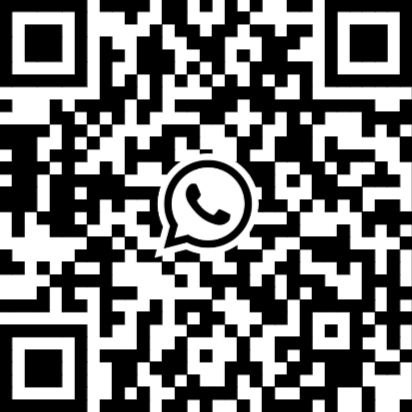
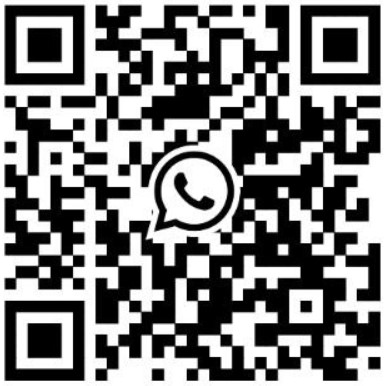
Update: Changed Whatsapp Number

diff --git a/utils/constants.jsx b/utils/constants.jsx
@@ -1,4 +1,4 @@
-export const BaseURL = "https://devsaqib.vercel.app"
+export const BaseURL = "https://devsaqib.vercel.app";
 import {
   BiLogoGmail,
   BiPhoneCall,
@@ -11,7 +11,12 @@ import {
   BiLogoJavascript,
   BiCopy,
 } from "react-icons/bi";
-import { TbBrandUpwork, TbBrandFiverr, TbBrandNextjs, TbBrandWhatsapp } from "react-icons/tb";
+import {
+  TbBrandUpwork,
+  TbBrandFiverr,
+  TbBrandNextjs,
+  TbBrandWhatsapp,
+} from "react-icons/tb";
 
 export const NavLinks = [
   { text: "About me", href: "/aboutme", id: "aboutme" },
@@ -52,14 +57,14 @@ export const ContactsList = [
     icon: <BiLogoTelegram />,
   },
 ];
-export const phoneNumber={
-    name: "Whatsapp",
-    href: "https://wa.me/message/4TWVYUTD5JFBN1",
-    number: "+92 3091879755",
-    id: "phone",
-    icon: <TbBrandWhatsapp/>,
-    qr: "/whatsappQR.jpg"
-  }
+export const phoneNumber = {
+  name: "Whatsapp",
+  href: "https://wa.me/message/7O7KT6FWVVOHO1",
+  number: "+92 3091879755",
+  id: "phone",
+  icon: <TbBrandWhatsapp />,
+  qr: "/whatsappQR.jpg",
+};
 
 export const Certifications = [
   {
@@ -124,6 +129,6 @@ export const ProjectDetails = [
     desc: "My second portfolio that I made using Next JS",
     code: "https://github.com/devsaqibhussain/my-portfolio",
     live: "https://portfolio-2-jade-pi.vercel.app/",
-    labels: ["React","Next JS", "TailwindCSS", "Framer Motion"],
+    labels: ["React", "Next JS", "TailwindCSS", "Framer Motion"],
   },
 ];
